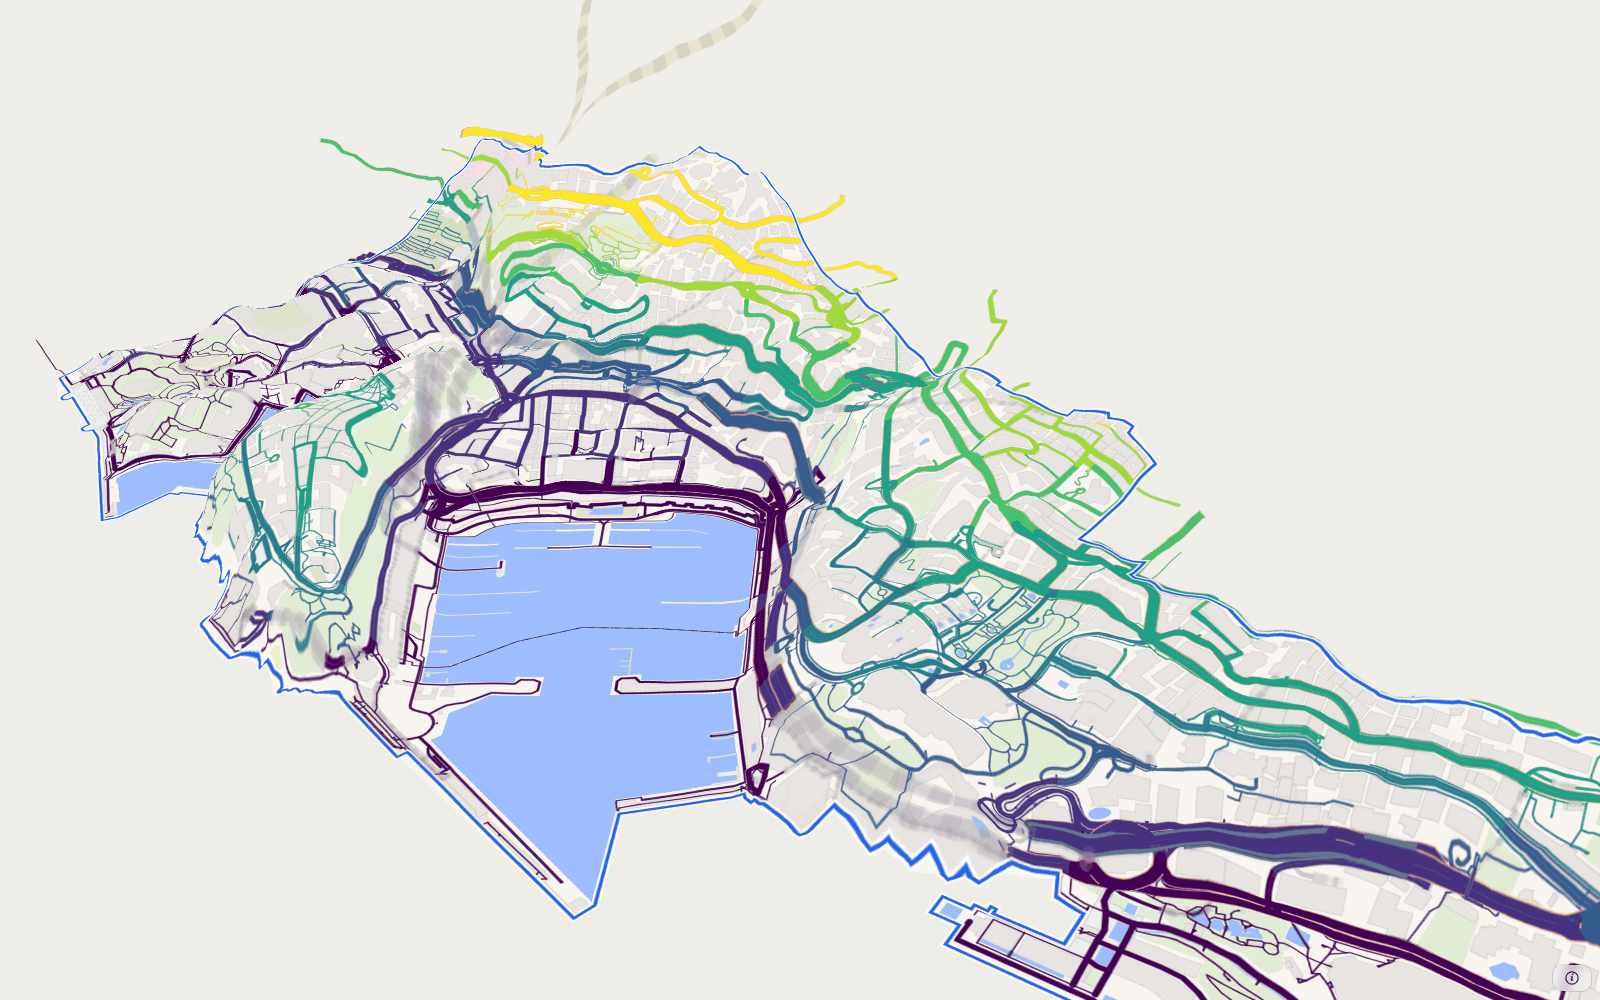
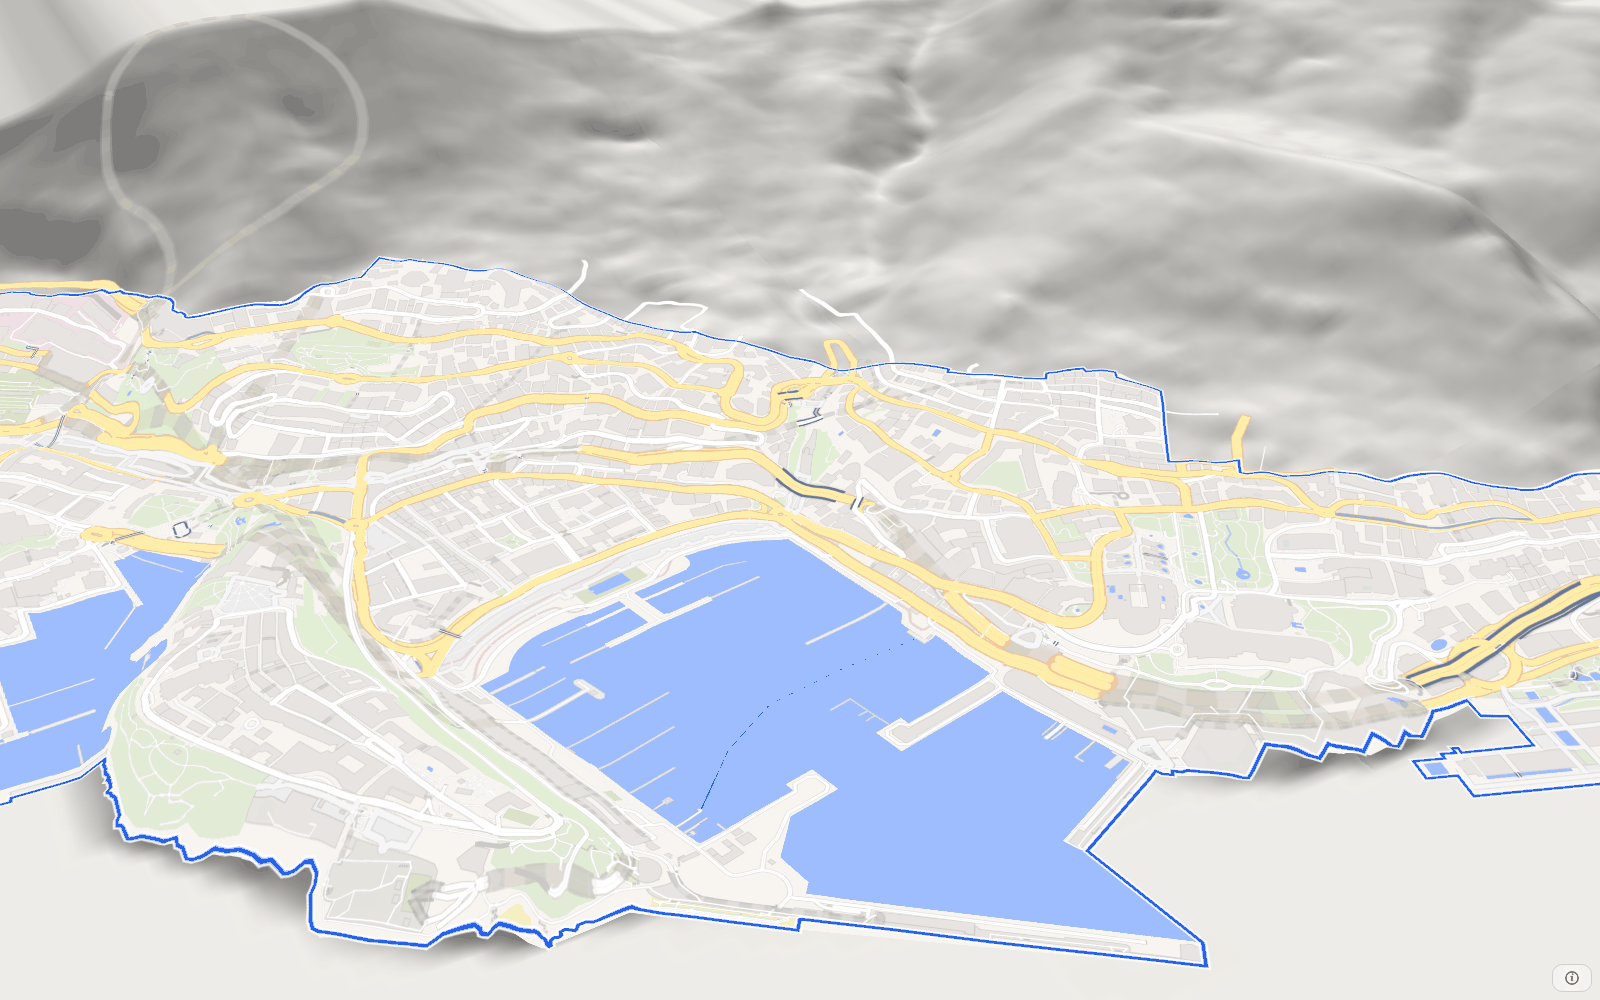
Docs home: the viz map in 3D with buildings; Monaco in 3D on its ground with hillshade, no painted colors

diff --git a/docs/index.md b/docs/index.md
@@ -101,8 +101,8 @@ traffic simulation and routing. Fix the OSM data once, on a map. Your fixes go i
 </figure>
 
 <figure markdown="span">
-  ![The map of duckosm viz: the driving, walking and cycling networks of Monaco on its base map](images/tour-map.png)
-  <figcaption>The map of <code>duckosm viz</code>: all modes on the base map of the database.</figcaption>
+  ![The map of duckosm viz in 3D: the buildings of Monaco stand up around the port, with the roads between them](images/tour-map.png)
+  <figcaption>The map of <code>duckosm viz</code> in 3D: the roads of all modes between the buildings, on the base map of the database.</figcaption>
 </figure>
 
 <figure markdown="span">
@@ -111,8 +111,8 @@ traffic simulation and routing. Fix the OSM data once, on a map. Your fixes go i
 </figure>
 
 <figure markdown="span">
-  ![Monaco in 3D: the roads colored by their ground height, from dark at the sea to yellow on the hill behind the port](images/tour-elevation.png)
-  <figcaption>Monaco in 3D: each road at its height, from the ground of the area (<code>duckosm elevation</code>, or the step Ground height in Studio).</figcaption>
+  ![Monaco in 3D on the ground of the area, with hillshade: the hill rises behind the port, and the roads climb it](images/tour-elevation.png)
+  <figcaption>Monaco in 3D on the ground of the area: the hill behind the port and the roads that climb it (<code>duckosm elevation</code>, or the step Ground height in Studio).</figcaption>
 </figure>
 
 </div>
